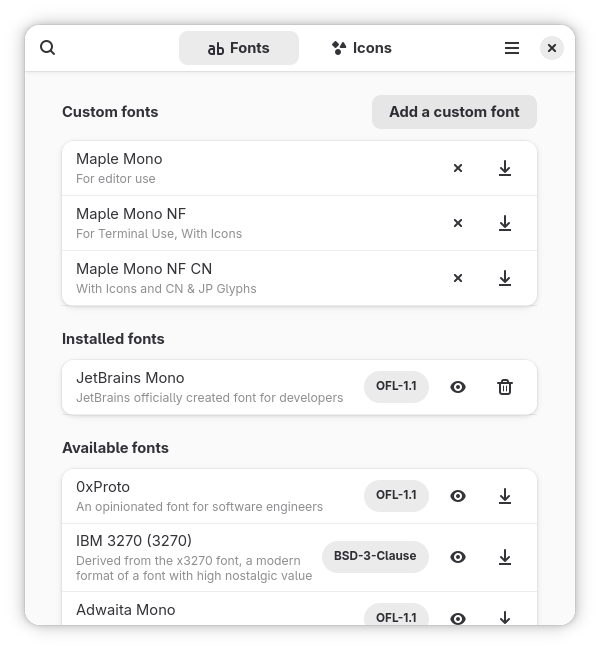
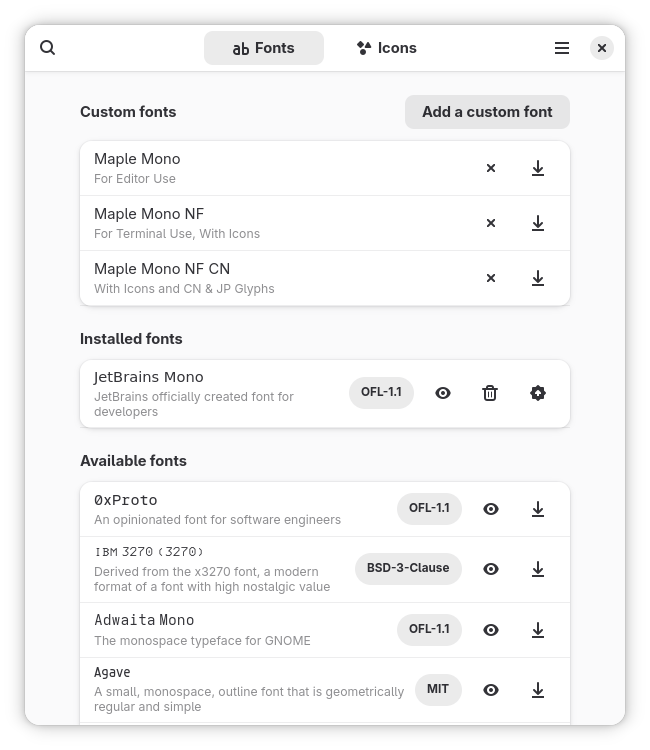
render font title using same font

diff --git a/src/window.js b/src/window.js
@@ -428,9 +428,11 @@ export const EmbWindow = GObject.registerClass(
             }
 
             const row = new Adw.ActionRow({
-                title: title,
+                title: `<span font_family="${font.family}">${title}</span>`,
                 subtitle: this.utils.escapeMarkup(font.description),
             });
+
+            row.set_use_markup(true);
 
             const suffix = this._createFontRowSuffix(font);
             row.add_suffix(suffix);
